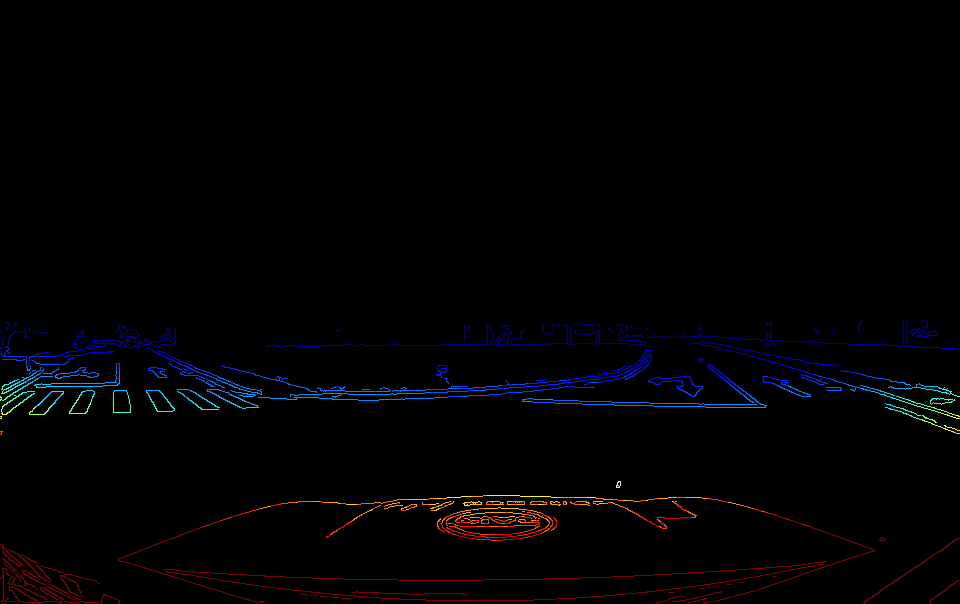
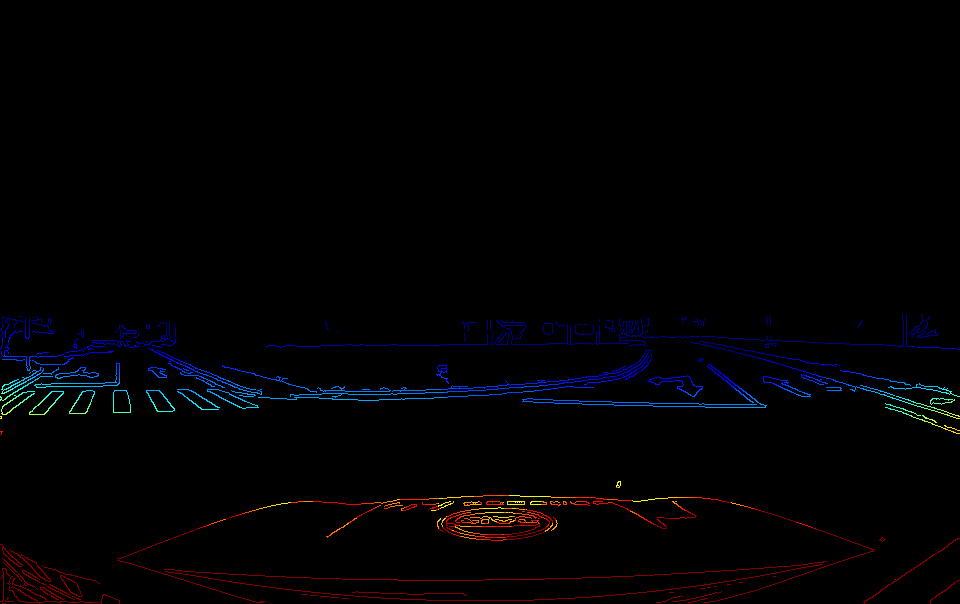
update for saic tri-cam test
1. enlarge the size of matching window;
2. move rotation params of ground plane outside;
3. fix sampling of ground plane in up-down direction.

diff --git a/src/PSL/psl_stereo/cudaFishEyePlaneSweep.cpp b/src/PSL/psl_stereo/cudaFishEyePlaneSweep.cpp
@@ -93,6 +93,17 @@ void CudaFishEyePlaneSweep::setZRange(double nearZ, double farZ)
     this->farZ = farZ;
 }
 
+void CudaFishEyePlaneSweep::setAngleRange(double rollRange, double pitchRange)
+{
+    this->rollRange = rollRange;
+    this->pitchRange = pitchRange;
+}
+
+void CudaFishEyePlaneSweep::setNumAngles(int num)
+{
+    this->numAngles = num;
+}
+
 void CudaFishEyePlaneSweep::setOcclusionMode(FishEyePlaneSweepOcclusionMode occlusionMode)
 {
     this->occlusionMode = occlusionMode;
@@ -287,44 +298,49 @@ void CudaFishEyePlaneSweep::process(int refImgId)
       Eigen::Vector3d nW;
       nW << 0.0, 0.0, 1.0;
 
-      // rotatation range
-      double rollRange = 1.0 * M_PI / 180.0;
-      double pitchRange = 1.0 * M_PI / 180.0;
-      double numAngle = 4.0;
+      double rollStep = rollRange / (numAngles - 1);
+      double pitchStep = pitchRange / (numAngles - 1);
 
-      double stepRoll = rollRange / (numAngle - 1);
-      double stepPitch = pitchRange / (numAngle - 1);
+      double depthStep = (farZ - nearZ)/(numPlanes-1);
 
-      planes = Grid<Eigen::Vector4d>(numPlanes * numAngle * numAngle, 1);
+      planes = Grid<Eigen::Vector4d>(numPlanes * numAngles * numAngles, 1);
       int cntPlane = 0;
 
-      for (int r = 0; r < numAngle; r++)
-        for (int p = 0; p < numAngle; p++)
-        {
-          // rotation
-          double roll = - rollRange / 2.0 + r * stepRoll;
-          double pitch = - pitchRange / 2.0 + p * stepPitch;
-
-          Eigen::Matrix3d R;
-          R = Eigen::AngleAxisd(pitch, Eigen::Vector3d::UnitY()) *
-              Eigen::AngleAxisd(roll, Eigen::Vector3d::UnitX());
-
-          // transform to camera frame
-          Eigen::Vector3d nC;
-          nC = refImg.cam.getR() * R * nW;
-
-          double step = (farZ - nearZ)/(numPlanes-1);
-
-          for (int i = 0; i < numPlanes; i++)
+      for (int i = 0; i < numPlanes; i++)
+        for (int r = 0; r < numAngles; r++)
+          for (int p = 0; p < numAngles; p++)
           {
+            // rotation
+            double roll = - rollRange / 2.0 + r * rollStep;
+            double pitch = - pitchRange / 2.0 + p * pitchStep;
+
+            Eigen::Matrix3d R;
+            R = Eigen::AngleAxisd(pitch, Eigen::Vector3d::UnitY()) *
+                Eigen::AngleAxisd(roll, Eigen::Vector3d::UnitX());
+
+            // rotated normal in world frame
+            Eigen::Vector3d nRotatedW;
+            nRotatedW = R * nW;
+
+            // translated normal in world frame
+            double depthTransW = nearZ + i * depthStep;
+
+            // compute corresponding depth in camera frame
+            Eigen::Vector3d originCamInWorld = refImg.cam.getC();
+            double depthC = nRotatedW.transpose() * originCamInWorld + depthTransW;
+            depthC /= nRotatedW.norm();
+
+            // transform plane normal to camera frame
+            Eigen::Vector3d nC;
+            nC = refImg.cam.getR() * nRotatedW;
+
             planes(cntPlane,0)(0) = nC(0);
             planes(cntPlane,0)(1) = nC(1);
             planes(cntPlane,0)(2) = nC(2);
-            planes(cntPlane,0)(3) = nearZ + i*step;
+            planes(cntPlane,0)(3) = depthC;
 
             cntPlane++;
           }
-        }
 
       break;
     }

diff --git a/src/PSLTests/fisheyePlanesweepTestSaic.cpp b/src/PSLTests/fisheyePlanesweepTestSaic.cpp
@@ -139,18 +139,14 @@ int main(int argc, char* argv[])
   PSL_CUDA::DeviceImage devImg;
   PSL_CUDA::CudaFishEyeImageProcessor cFEIP;
 
-  double minZ = 1.5;
-  double maxZ = 1.7;
-
   makeOutputFolder("fisheyeTestResultsSaic");
 
   // Plane sweeping stereo
   {
     PSL::CudaFishEyePlaneSweep cFEPS;
     cFEPS.setScale(1.0);
-    cFEPS.setZRange(minZ, maxZ);
-    cFEPS.setMatchWindowSize(9, 9);
-    cFEPS.setNumPlanes(20);
+    cFEPS.setMatchWindowSize(30, 30);
+    cFEPS.setNumPlanes(5);
     cFEPS.setOcclusionMode(PSL::FISH_EYE_PLANE_SWEEP_OCCLUSION_NONE);
     cFEPS.setPlaneGenerationMode(
         PSL::FISH_EYE_PLANE_SWEEP_PLANEMODE_UNIFORM_DEPTH_GROUND);
@@ -163,8 +159,19 @@ int main(int argc, char* argv[])
     cFEPS.enableOutputCostVolume();
     cFEPS.enableSubPixel(false);
 
+    int refId = 0;
+
+    double groundDeltaRange = 0.3;
+    double minZ = - groundDeltaRange / 2.0;
+    double maxZ = groundDeltaRange / 2.0;
+    cFEPS.setZRange(minZ, maxZ);
+
+    double rollRange = 2.0 * M_PI / 180.0;
+    double pitchRange = 2.0 * M_PI / 180.0;
+    cFEPS.setAngleRange(rollRange, pitchRange);
+    cFEPS.setNumAngles(5);
+
     // undistort and add the images
-    int refId = -1;
     for (unsigned int i = 0; i < numCam; i++)
     {
       std::string imageFileName = dataFolder + "/" + imageFileNames[i];
@@ -191,11 +198,6 @@ int main(int argc, char* argv[])
       undistRes.first.download(undistImage);
 
       int id = cFEPS.addDeviceImage(undistRes.first, undistRes.second);
-
-      if (i == 0)
-      {
-        refId = id;
-      }
     }
 
     makeOutputFolder("fisheyeTestResultsSaic/grayscaleZNCC");
@@ -205,17 +207,18 @@ int main(int argc, char* argv[])
       PSL::FishEyeDepthMap<float, double> fEDM;
       fEDM = cFEPS.getBestDepth();
       cv::Mat refImage = cFEPS.downloadImage(refId);
+      cv::imshow("Reference Image", refImage);
 
       PSL::Grid<float> bestCosts;
       bestCosts = cFEPS.getBestCosts();
-      PSL::displayGridZSliceAsImage(bestCosts, 0, 10);
+      PSL::displayGridZSliceAsImage(bestCosts, 0, 0);
 
-//      PSL::Grid<float> costVolume;
-//      costVolume = cFEPS.getCostVolume();
-//      for (unsigned int i = 0; i < costVolume.getDepth(); i++)
-//      {
-//        PSL::displayGridZSliceAsImage(costVolume, i, (float) 0.1, (float) 0.4, 10);
-//      }
+      PSL::Grid<float> costVolume;
+      costVolume = cFEPS.getCostVolume();
+      for (unsigned int i = 0; i < costVolume.getDepth(); i++)
+      {
+        PSL::displayGridZSliceAsImage(costVolume, i, 20);
+      }
 
       makeOutputFolder(
           "fisheyeTestResultsSaic/grayscaleZNCC/NoOcclusionHandling/");
@@ -228,7 +231,6 @@ int main(int argc, char* argv[])
                                     "NoOcclusionHandling/invDepthCol.png",
                                     minDepth, maxDepth);
 
-      cv::imshow("Reference Image", refImage);
       fEDM.displayInvDepthColored(minDepth, maxDepth, 100);
 
       cv::Mat colInvDepth;

diff --git a/src/PSL/psl_stereo/cudaFishEyePlaneSweep.h b/src/PSL/psl_stereo/cudaFishEyePlaneSweep.h
@@ -131,6 +131,8 @@ namespace PSL
 
         // needs to be set prior to run
         void setZRange(double nearZ, double farZ);
+        void setAngleRange(double rollRange, double pitchRange);
+        void setNumAngles(int num);
         void setMatchWindowSize(int w, int h);
         void setNumPlanes(int num);
         void setOcclusionMode(FishEyePlaneSweepOcclusionMode occlusionMode);
@@ -169,6 +171,10 @@ namespace PSL
 
         double nearZ;
         double farZ;
+
+        double rollRange;
+        double pitchRange;
+        double numAngles;
 
         double scale;
 
